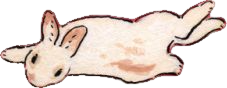
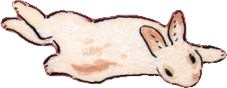
Сделала что-то с тестом, можно ещё доработать

diff --git a/front/script.js b/front/script.js
@@ -23,9 +23,11 @@ const progressIndicator = document.getElementById("progressIndicator");
 // ========== ЗАГРУЗКА ТЕСТА ============================================================
 async function loadTest() {
   console.log("🚀 [loadTest] Начинаю загрузку теста...");
-  
+
   try {
-    console.log("📡 [loadTest] Отправляю запрос: GET http://localhost:8080/tests/1");
+    console.log(
+      "📡 [loadTest] Отправляю запрос: GET http://localhost:8080/tests/1",
+    );
     const response = await fetch("http://localhost:8080/tests/1");
 
     console.log("📨 [loadTest] Статус ответа:", response.status);
@@ -33,18 +35,27 @@ async function loadTest() {
 
     if (!response.ok) {
       const errorText = await response.text();
-      console.error("❌ [loadTest] Сервер вернул ошибку:", response.status, errorText);
-      throw new Error(`HTTP error! status: ${response.status}, body: ${errorText}`);
+      console.error(
+        "❌ [loadTest] Сервер вернул ошибку:",
+        response.status,
+        errorText,
+      );
+      throw new Error(
+        `HTTP error! status: ${response.status}, body: ${errorText}`,
+      );
     }
 
     console.log("🔄 [loadTest] Парсим JSON...");
     testData = await response.json();
-    
+
     console.log("✅ [loadTest] Тест успешно загружен!");
     console.log("📊 [loadTest] Данные теста:", testData);
     console.log("📝 [loadTest] Название теста:", testData?.title);
-    console.log("❓ [loadTest] Количество вопросов:", testData?.questions?.length);
-    
+    console.log(
+      "❓ [loadTest] Количество вопросов:",
+      testData?.questions?.length,
+    );
+
     // Логируем структуру вопросов
     if (testData?.questions) {
       testData.questions.forEach((q, index) => {
@@ -67,17 +78,16 @@ async function loadTest() {
 
     currentQuestionIndex = 0;
     console.log("🔄 [loadTest] Устанавливаю индекс вопроса на 0");
-    
+
     console.log("🎨 [loadTest] Вызываю renderCurrentQuestion()");
     renderCurrentQuestion();
     console.log("✅ [loadTest] Загрузка теста завершена успешно!");
-    
   } catch (error) {
     console.error("❌ [loadTest] КРИТИЧЕСКАЯ ОШИБКА:", error);
     console.error("❌ [loadTest] Имя ошибки:", error.name);
     console.error("❌ [loadTest] Сообщение:", error.message);
     console.error("❌ [loadTest] Стек:", error.stack);
-    
+
     alert(
       "Не удалось загрузить тест. Проверьте, запущен ли сервер на http://localhost:8080",
     );
@@ -148,9 +158,11 @@ function showRegistrationModal() {
         return false;
       }
       if (!birth) {
-        errorDiv.innerText = "Зайчик забыл ввести дату рождения";
+        errorDiv.innerText =
+          "Зайчик забыл ввести дату рождения ИЛИ ввёл несуществующую дату";
         return false;
       }
+
       if (!email) {
         errorDiv.innerText = "Зайчик забыл ввести email";
         return false;
@@ -325,9 +337,11 @@ function renderCurrentQuestion() {
   let questionHTML = question.text;
   if (questionImages[question.id]) {
     questionHTML += `<br><img src="${questionImages[question.id]}" style="max-width: 400px; display: block; margin: 15px auto; border-radius: 10px;">`;
-    console.log(`[renderCurrentQuestion] Картинка добавлена в конец вопроса id=${question.id}`);
+    console.log(
+      `[renderCurrentQuestion] Картинка добавлена в конец вопроса id=${question.id}`,
+    );
   }
-  
+
   questionText.innerHTML = questionHTML;
   progressIndicator.innerText = `Вопрос ${currentQuestionIndex + 1} / ${testData.questions.length}`;
 
@@ -349,15 +363,14 @@ function renderCurrentQuestion() {
     const label = document.createElement("label");
     label.className = "option-label";
     label.htmlFor = `q_${question.id}_${answer.id}`;
-    
-     //заменяем {password} на пароль
+
+    //заменяем {password} на пароль
     let answerText = answer.text;
-    if (answerText.includes('{password}') && userData?.password) {
-      answerText = answerText.replace('{password}', userData.password);
+    if (answerText.includes("{password}") && userData?.password) {
+      answerText = answerText.replace("{password}", userData.password);
       console.log(`замена пароля случилась: текст ответа: ${answerText}`);
     }
     console.log("замена пароля не случилась");
-
 
     label.innerText = answerText;
 
@@ -392,17 +405,17 @@ function renderCurrentQuestion() {
 /// ========== ОТПРАВКА РЕЗУЛЬТАТОВ ==================================================================
 async function submitTest() {
   console.log("🚀 [submitTest] Начинаю отправку результатов");
-  
+
   const allAnswered = testData.questions.every(
     (q) => userAnswers[q.id] !== null,
   );
-  
+
   if (!allAnswered) {
     console.warn("[submitTest] Не все вопросы отвечены");
     alert("Пожалуйста, ответьте на все вопросы");
     return false;
   }
-  
+
   console.log("[submitTest] Все вопросы отвечены");
   console.log("[submitTest] userData:", userData);
   console.log("[submitTest] Дата рождения:", userData?.birth);
@@ -412,9 +425,9 @@ async function submitTest() {
       user_id: userData?.id,
       birth_date: userData?.birth,
     };
-    
+
     console.log("[submitTest] Отправляю запрос:", requestBody);
-    
+
     const response = await fetch("http://localhost:8080/tests/1/submit", {
       method: "POST",
       headers: {
@@ -428,12 +441,14 @@ async function submitTest() {
     if (!response.ok) {
       const errorText = await response.text();
       console.error(" [submitTest] Ошибка сервера:", errorText);
-      throw new Error(`HTTP error! status: ${response.status}, body: ${errorText}`);
+      throw new Error(
+        `HTTP error! status: ${response.status}, body: ${errorText}`,
+      );
     }
 
     const result = await response.json();
     console.log("[submitTest] Получен результат:", result);
-    
+
     showResultPage(result);
     return true;
   } catch (error) {
@@ -446,7 +461,7 @@ async function submitTest() {
 // ========== ПОКАЗ РЕЗУЛЬТАТОВ ===================================================================
 function showResultPage(data) {
   console.log("[showResultPage] Отображаю результаты:", data);
-  
+
   welcomeScreen.style.display = "none";
   testScreen.style.display = "none";
   resultPage.style.display = "block";
@@ -480,7 +495,7 @@ function showResultPage(data) {
   if (resultImage) {
     resultImage.src = `http://localhost:8080/images/${data.result.id}.png`;
     resultImage.style.display = "block";
-  } 
+  }
 
   // Для Близнецов (id=3) показываем вторую картинку
   if (data.result.id === 3 && resultImage2) {
@@ -519,11 +534,11 @@ function goToPrev() {
 // ========== СБРОС ===========================================================================
 function resetAndStartOver() {
   console.log("[resetAndStartOver] Сброс теста для повторного прохождения");
-  
+
   currentQuestionIndex = 0;
   userAnswers = {};
   // НЕ сбрасываем userData!
-  
+
   if (testData) {
     testData.questions.forEach((q) => {
       userAnswers[q.id] = null;
@@ -551,8 +566,11 @@ function resetAndStartOver() {
   if (statsContainer) {
     statsContainer.innerHTML = "";
   }
-  
-  console.log(" [resetAndStartOver] Сброс завершён, userData сохранены:", userData);
+
+  console.log(
+    " [resetAndStartOver] Сброс завершён, userData сохранены:",
+    userData,
+  );
 }
 
 // ========== ЗАПУСК ТЕСТА =============================================================================

diff --git a/front/styles/test.css b/front/styles/test.css
@@ -1,3 +1,8 @@
+#testScreen.card {
+  position: relative;
+  margin-top: -40px; /* отступ сверху вместо */
+}
+
 .question-text {
   font-family: "LittleStar", sans-serif;
   font-size: 40px;
@@ -65,7 +70,42 @@
 .progress {
   font-size: 14px;
   color: #d9cbc2;
-  text-align: right;
+  text-align: left;
   margin-bottom: 16px;
   font-weight: 500;
+}
+
+/* ================================== Картинки ======================================== */
+
+/* Правая картинка (сверху справа) */
+#testScreen.card::after {
+  content: "";
+  position: fixed;
+  top: -25%;
+  right: -650px;
+  width: 850px;
+  height: 850px;
+  background-image: url("../images/Tests/Rabbits_2.png");
+  background-size: contain;
+  background-repeat: no-repeat;
+  pointer-events: none;
+  z-index: 1;
+  opacity: 1;
+  transform: rotate(15deg);
+}
+
+/* Нижняя левая картинка */
+#testScreen::before {
+  content: "";
+  position: fixed;
+  bottom: -320px;
+  left: -300px;
+  width: 600px;
+  height: 600px;
+  background-image: url("../images/Tests/zodiac.png");
+  background-size: contain;
+  background-repeat: no-repeat;
+  pointer-events: none;
+  z-index: -10;
+  /* opacity: 0.8; */
 }

diff --git a/front/index.html b/front/index.html
@@ -43,10 +43,29 @@
           <div class="result-text" id="resultMessage"></div>
 
           <div class="result-image-container">
-            <img id="resultImage" src="" alt="Знак зодиака" style="display:none; max-width: 300px; margin: 20px auto; border-radius: 10px;">
-             <img id="resultImage2" src="" alt="Знак зодиака" style="display:none; max-width: 300px; margin: 20px auto; border-radius: 10px;">
+            <img
+              id="resultImage"
+              src=""
+              alt="Знак зодиака"
+              style="
+                display: none;
+                max-width: 300px;
+                margin: 20px auto;
+                border-radius: 10px;
+              "
+            />
+            <img
+              id="resultImage2"
+              src=""
+              alt="Знак зодиака"
+              style="
+                display: none;
+                max-width: 300px;
+                margin: 20px auto;
+                border-radius: 10px;
+              "
+            />
           </div>
-          
 
           <div class="result-buttons">
             <button class="btn-secondary" id="newTestBtn">Пройти заново</button>

diff --git a/front/styles/modal.css b/front/styles/modal.css
@@ -31,7 +31,7 @@
   opacity: 0;
   visibility: hidden;
   transform: translateX(-200px);
-  animation: slideInLeft 0.8s ease-out 0.05s forwards;
+  animation: slideInLeft 1.5s ease-out 0.05s forwards;
 }
 
 /* Правая картинка - выезжает снизу справа  - Облака  */
@@ -50,7 +50,7 @@
   opacity: 0;
   visibility: hidden;
   transform: translateX(200px);
-  animation: slideInRight 0.8s ease-out 0.15s forwards;
+  animation: slideInRight 1.5s ease-out 0.15s forwards;
 }
 
 @keyframes slideInLeft {